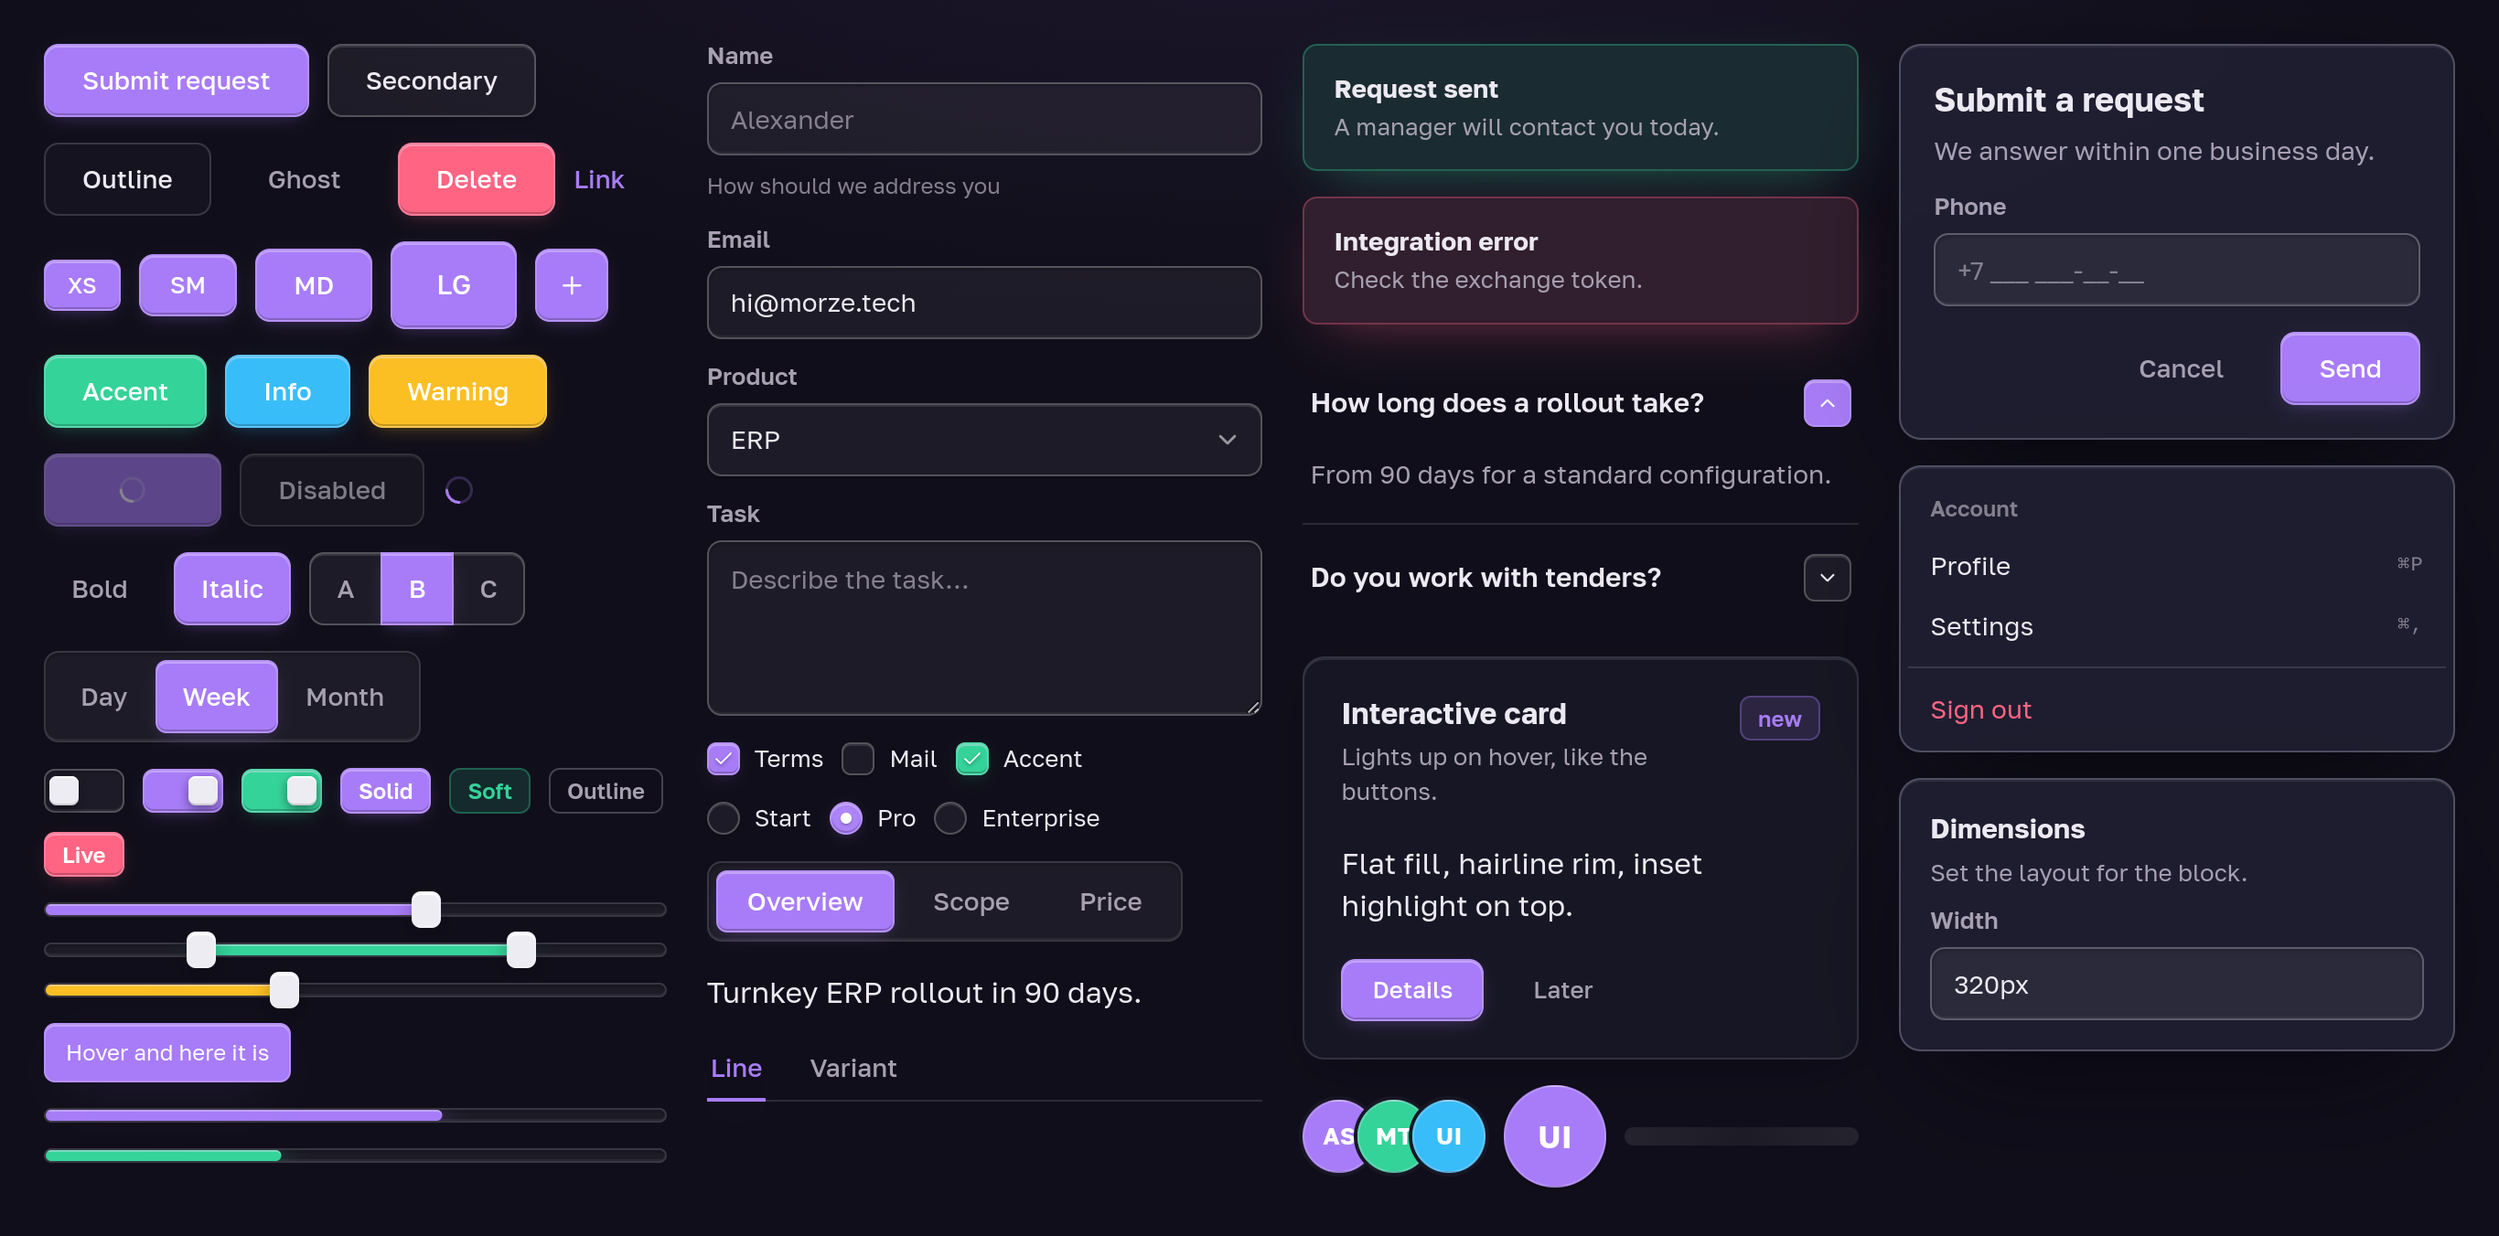
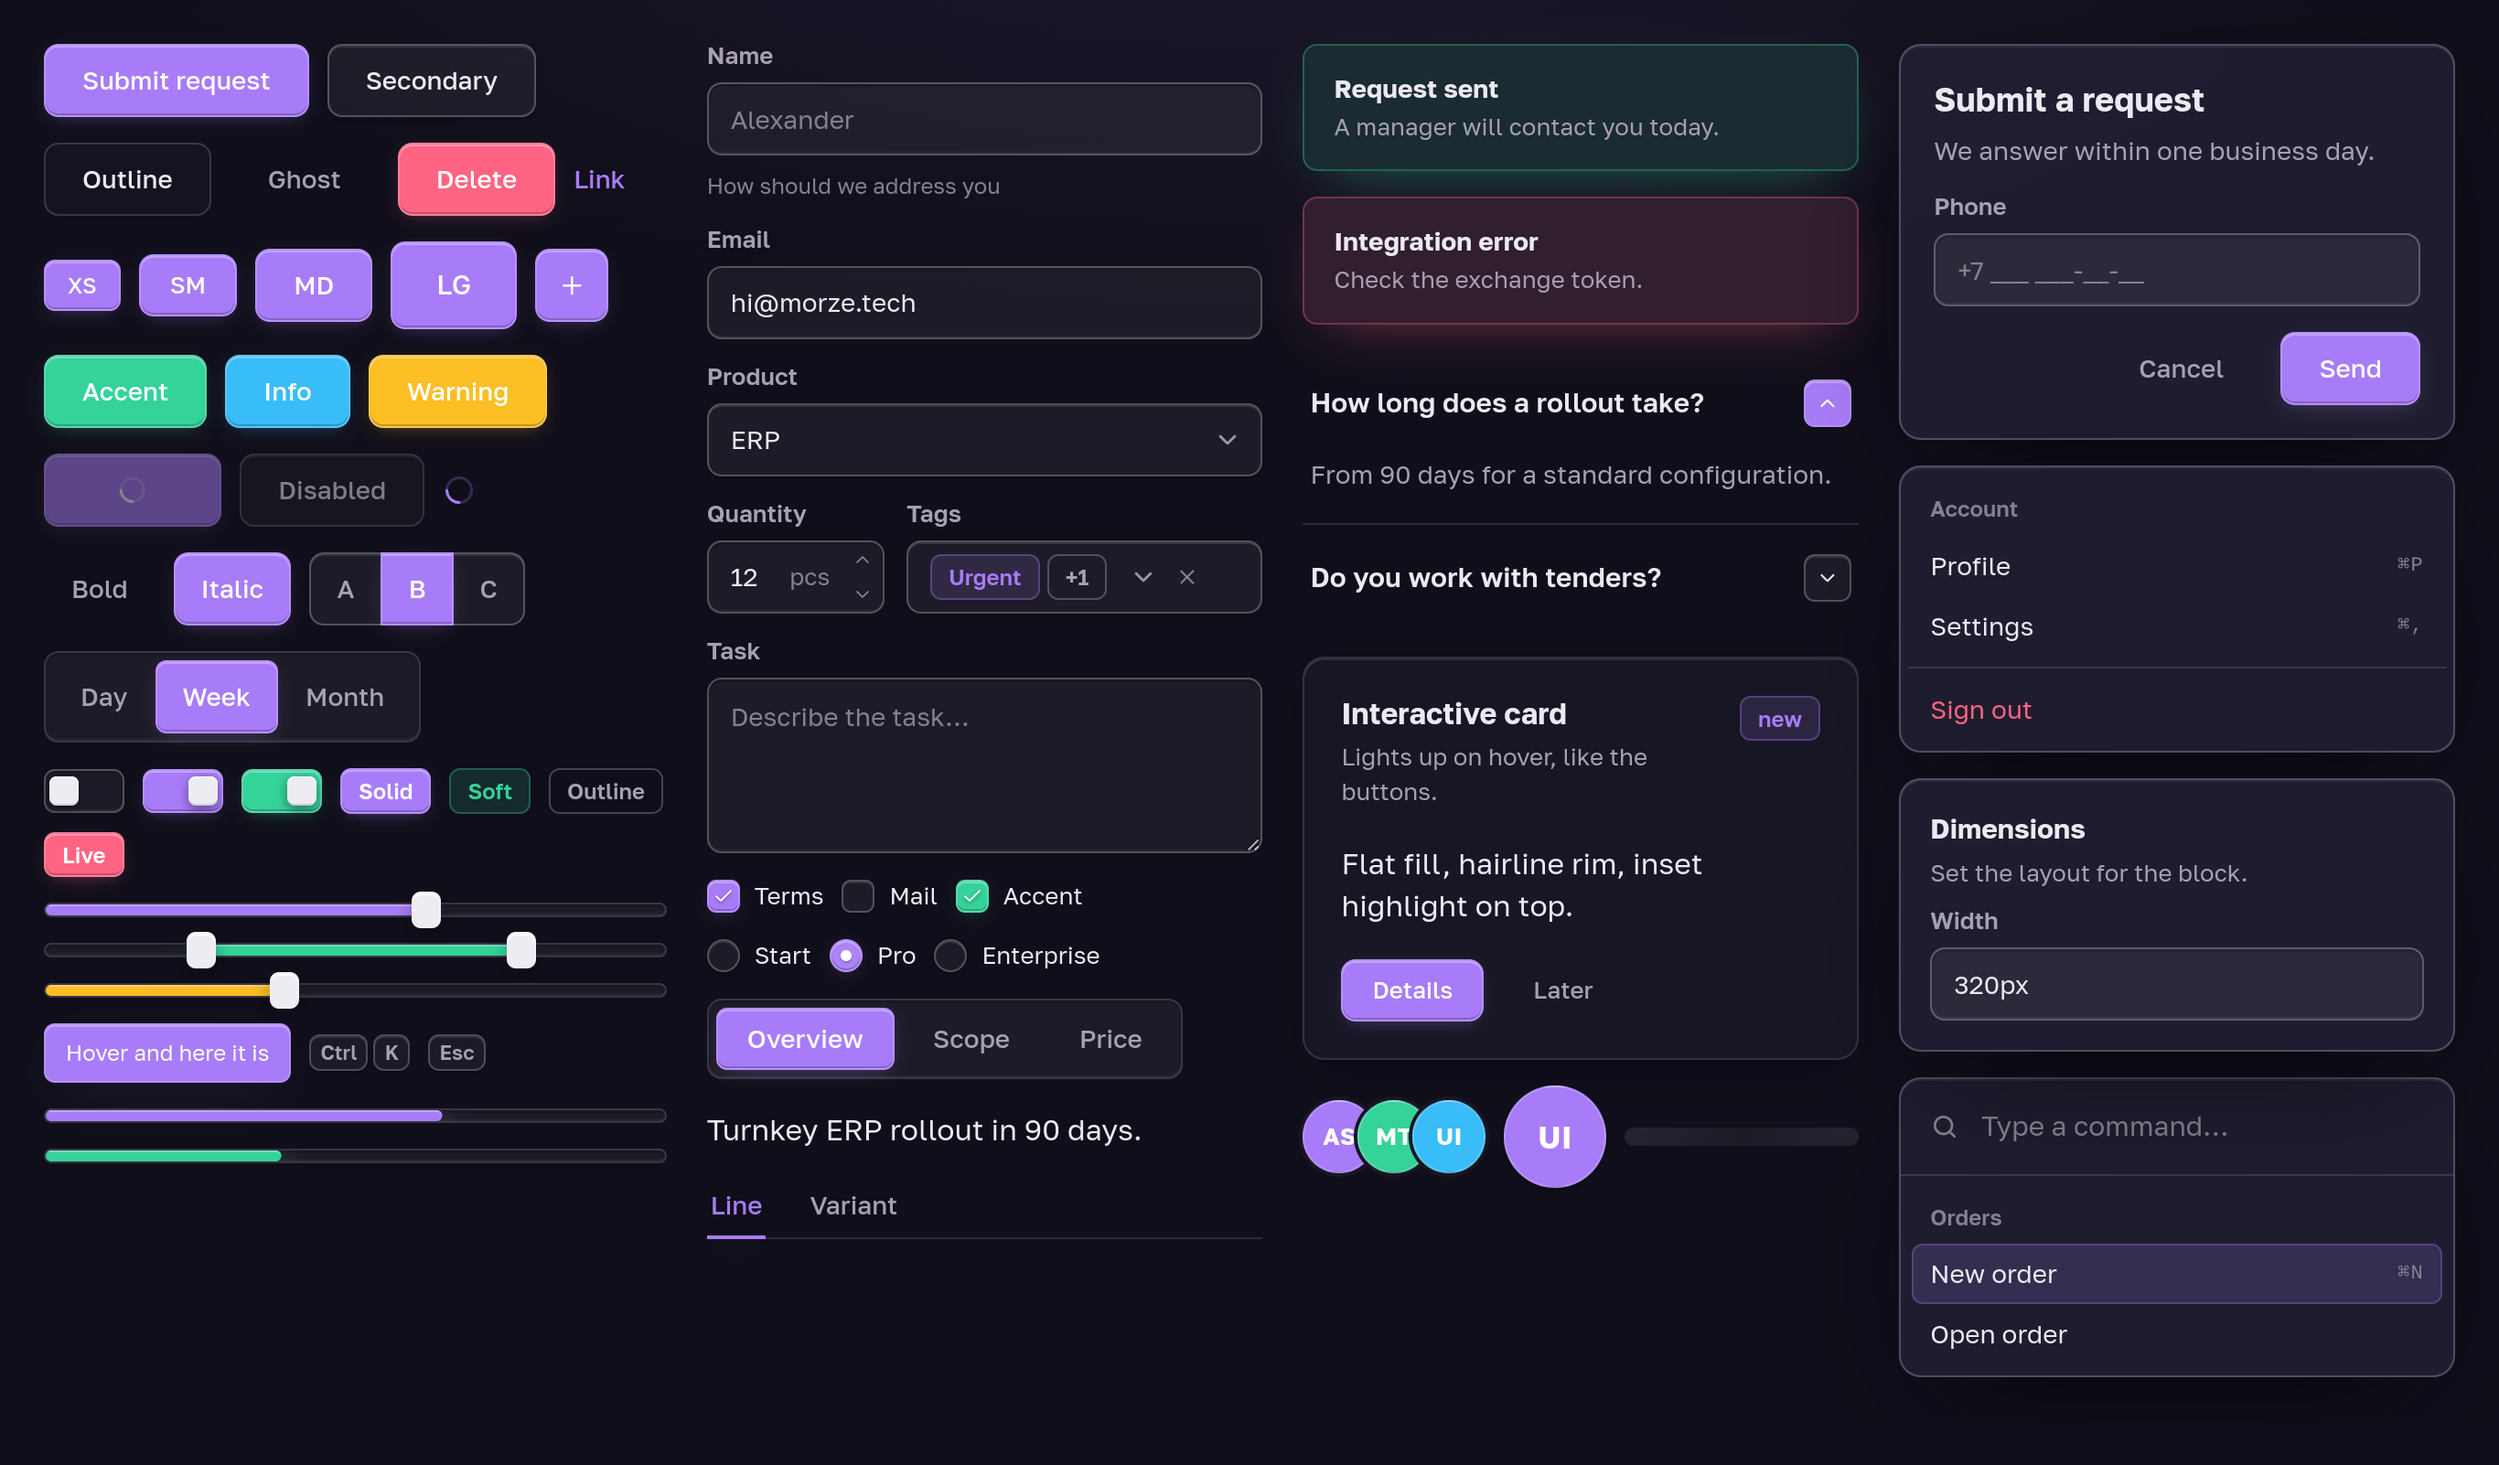
docs: redraw the README still for 0.5.0
The still is the first thing the README shows and it was a kit ago. It
gains the four new things that photograph: the number field with its
unit and steppers, a MultiSelect with chips and its "+1", a row of keys,
and the command palette.

The palette is a real `Command` — only the dialog around it is borrowed,
the same way the dialog, the menu and the popover beside it are, because
those four are portalled and centred when they are live. Everything else
in the frame is still a real component.

`npm run shot` captures at 1366x900 and trims to the content, so the
composition has to fit that height: an empty state at the foot of the
first column was tried and cut, and the palette lost its second group.

diff --git a/playground/src/Shot.tsx b/playground/src/Shot.tsx
@@ -19,11 +19,21 @@ import {
   CardHeader,
   CardTitle,
   Checkbox,
+  Command,
+  CommandGroup,
+  CommandInput,
+  CommandItem,
+  CommandList,
+  CommandShortcut,
   Field,
   FieldHint,
   Input,
+  Kbd,
+  KbdSequence,
   Label,
   MorzeThemeProvider,
+  MultiSelect,
+  NumberInput,
   Progress,
   RadioGroup,
   RadioGroupItem,
@@ -131,9 +141,12 @@ export default function Shot() {
             <span className="mz-tooltip-content shot__panel" style={{ width: 'auto' }}>
               Hover and here it is
             </span>
+            <KbdSequence keys={['mod', 'k']} />
+            <Kbd>Esc</Kbd>
           </div>
           <Progress value={64} />
           <Progress value={38} tone="accent" />
+
         </div>
 
         <div className="shot__col">
@@ -158,9 +171,27 @@ export default function Shot() {
               </SelectContent>
             </Select>
           </Field>
+          <div className="shot__row shot__pair">
+            <Field>
+              <Label htmlFor="shot-qty">Quantity</Label>
+              <NumberInput id="shot-qty" defaultValue={12} min={0} unit="pcs" />
+            </Field>
+            <Field>
+              <Label>Tags</Label>
+              <MultiSelect
+                options={[
+                  { value: 'urgent', label: 'Urgent' },
+                  { value: 'paid', label: 'Paid' },
+                  { value: 'export', label: 'Export' },
+                ]}
+                defaultValue={['urgent', 'paid']}
+                maxChips={1}
+              />
+            </Field>
+          </div>
           <Field>
             <Label htmlFor="shot-task">Task</Label>
-            <Textarea id="shot-task" rows={3} placeholder="Describe the task…" />
+            <Textarea id="shot-task" rows={2} placeholder="Describe the task…" />
           </Field>
           <div className="shot__row">
             <label className="shot__check">
@@ -300,6 +331,22 @@ export default function Shot() {
               <Label htmlFor="shot-width">Width</Label>
               <Input id="shot-width" defaultValue="320px" />
             </Field>
+          </div>
+
+          {/* The palette is a real `Command`; only the dialog around it is
+              borrowed, for the same reason as the three panels above. */}
+          <div className="mz-panel mz-command-dialog shot__panel">
+            <Command>
+              <CommandInput placeholder="Type a command…" aria-label="Command" />
+              <CommandList>
+                <CommandGroup heading="Orders">
+                  <CommandItem value="New order">
+                    New order <CommandShortcut>⌘N</CommandShortcut>
+                  </CommandItem>
+                  <CommandItem value="Open order">Open order</CommandItem>
+                </CommandGroup>
+              </CommandList>
+            </Command>
           </div>
 
         </div>

diff --git a/playground/src/shot.css b/playground/src/shot.css
@@ -29,3 +29,8 @@ body { background: var(--mz-bg); font-family: var(--mz-font-sans); }
 .shot__dialog-close { position: absolute; top: 14px; right: 14px; }
 .shot__panel-wrap { position: relative; }
 .shot__check { display: flex; align-items: center; gap: 8px; font-size: 13px; color: var(--mz-text); }
+/* Two fields sharing a line, for the pair that is narrower than the column. */
+.shot__pair { align-items: flex-end; gap: 12px; flex-wrap: nowrap; }
+.shot__pair > * { flex: 1; min-width: 0; }
+/* The number is a short field and the chips need the room. */
+.shot__pair > :first-child { flex: 0 0 32%; }
